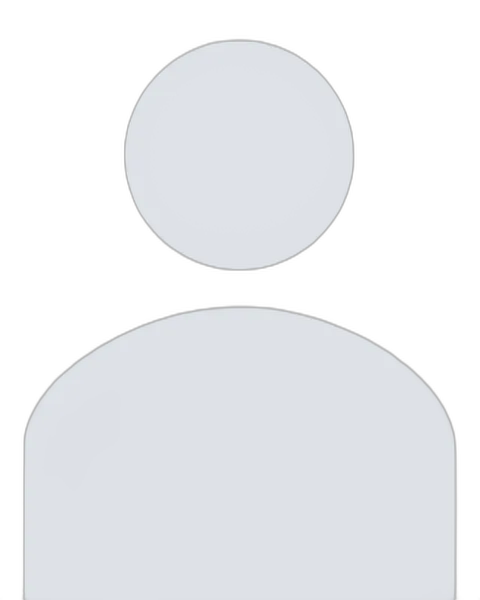
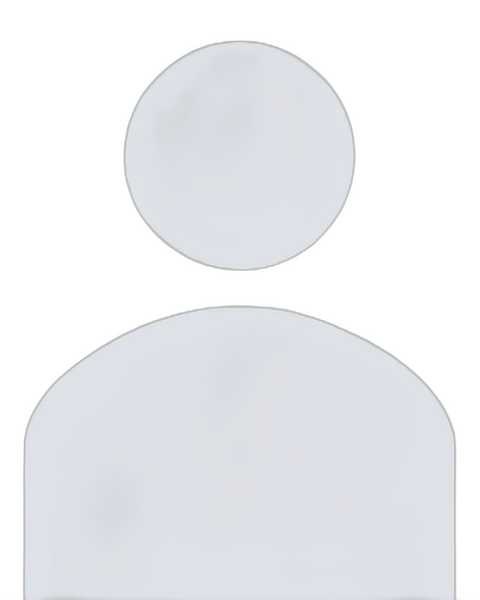
Improve squad cutouts with human segmentation

diff --git a/script.js b/script.js
@@ -796,15 +796,10 @@ if (squadData?.teams) {
     const match = value?.match(/\/player\/([^/]+)/i);
     return match?.[1] || null;
   };
-  const defaultPlayerImage = "logo.png?v=20260310b";
-  const cutoutDisabledTokens = new Set([
-    "Y1NfDiFUnwcn",
-    "6pxKXYYOFU0I"
-  ]);
 
   const resolveImageUrl = (value) => {
     if (!value) {
-      return defaultPlayerImage;
+      return "logo.png?v=20260310b";
     }
 
     if (/\.(?:avif|webp|png|jpe?g|svg)$/i.test(value)) {
@@ -813,34 +808,21 @@ if (squadData?.teams) {
 
     return `${value.replace(/\/$/, "")}/480x600.webp`;
   };
-  const resolveDisplayImageUrl = (value) => {
-    const token = getImageToken(value);
-    const cutoutUrl = resolveCutoutUrl(value);
-
-    if (cutoutUrl) {
-      return cutoutUrl;
-    }
-
-    if (token && cutoutDisabledTokens.has(token)) {
-      return defaultPlayerImage;
-    }
-
-    return resolveImageUrl(value);
-  };
   const resolveCutoutUrl = (value) => {
     const token = getImageToken(value);
 
-    if (!token || cutoutDisabledTokens.has(token)) {
+    if (!token) {
       return null;
     }
 
-    return `images/kader/cutouts/${token}.png?v=20260316h`;
+    return `images/kader/cutouts/${token}.png?v=20260316i`;
   };
   const fallbackImageAttributes = (value) => {
     const remoteImage = resolveImageUrl(value);
     const escapedRemote = remoteImage.replace(/'/g, "\\'");
-    return `data-fallback-src="${escapedRemote}" onerror="if(!this.dataset.fallbackApplied){this.dataset.fallbackApplied='true';this.src=this.dataset.fallbackSrc;}else{this.onerror=null;this.src='${defaultPlayerImage}';}"`;
+    return `data-fallback-src="${escapedRemote}" onerror="if(!this.dataset.fallbackApplied){this.dataset.fallbackApplied='true';this.src=this.dataset.fallbackSrc;}else{this.onerror=null;this.src='logo.png?v=20260310b';}"`;
   };
+  const resolveDisplayImageUrl = (value) => resolveCutoutUrl(value) || resolveImageUrl(value);
   const asCssImage = (value) => `style="--player-image: url('${resolveDisplayImageUrl(value)}');"`;
   const formatFlags = (flags = []) =>
     flags.map((flag) => {

diff --git a/kader.html b/kader.html
@@ -124,6 +124,6 @@
     </footer>
   </div>
   <script src="team-data.js?v=20260316c"></script>
-  <script src="script.js?v=20260316m"></script>
+  <script src="script.js?v=20260316n"></script>
 </body>
 </html>

diff --git a/datenschutz.html b/datenschutz.html
@@ -126,6 +126,6 @@
       </div>
     </footer>
   </div>
-  <script src="script.js?v=20260316m"></script>
+  <script src="script.js?v=20260316n"></script>
 </body>
 </html>

diff --git a/impressum.html b/impressum.html
@@ -103,6 +103,6 @@
       </div>
     </footer>
   </div>
-  <script src="script.js?v=20260316m"></script>
+  <script src="script.js?v=20260316n"></script>
 </body>
 </html>

diff --git a/kontakt.html b/kontakt.html
@@ -133,6 +133,6 @@
       </div>
     </footer>
   </div>
-  <script src="script.js?v=20260316m"></script>
+  <script src="script.js?v=20260316n"></script>
 </body>
 </html>

diff --git a/sportangebot.html b/sportangebot.html
@@ -130,6 +130,6 @@
       </div>
     </footer>
   </div>
-  <script src="script.js?v=20260316m"></script>
+  <script src="script.js?v=20260316n"></script>
 </body>
 </html>

diff --git a/verein.html b/verein.html
@@ -177,6 +177,6 @@
       </div>
     </footer>
   </div>
-  <script src="script.js?v=20260316m"></script>
+  <script src="script.js?v=20260316n"></script>
 </body>
 </html>

diff --git a/fanshop.html b/fanshop.html
@@ -67,6 +67,6 @@
       </div>
     </footer>
   </div>
-  <script src="script.js?v=20260316m"></script>
+  <script src="script.js?v=20260316n"></script>
 </body>
 </html>

diff --git a/index.html b/index.html
@@ -432,6 +432,6 @@
       );
     }
   </script>
-  <script src="script.js?v=20260316m"></script>
+  <script src="script.js?v=20260316n"></script>
 </body>
 </html>

diff --git a/scripts/generate_player_cutouts.py b/scripts/generate_player_cutouts.py
@@ -10,6 +10,7 @@ SOURCE_FILE = ROOT_DIR / "team-data.js"
 DOWNLOAD_DIR = ROOT_DIR / ".tmp" / "player-cutouts" / "downloads"
 OUTPUT_DIR = ROOT_DIR / "images" / "kader" / "cutouts"
 REMBG_BIN = Path("/Users/leakleemann/Library/Python/3.13/bin/rembg")
+REMBG_MODEL = "u2net_human_seg"
 
 
 def normalize_image_url(value: str) -> str:
@@ -47,7 +48,11 @@ def main() -> None:
             continue
 
         subprocess.run(["curl", "-L", remote_url, "-o", str(download_file)], cwd=ROOT_DIR, check=True)
-        subprocess.run([str(REMBG_BIN), "i", str(download_file), str(output_file)], cwd=ROOT_DIR, check=True)
+        subprocess.run(
+            [str(REMBG_BIN), "i", "-m", REMBG_MODEL, str(download_file), str(output_file)],
+            cwd=ROOT_DIR,
+            check=True,
+        )
         created += 1
 
     print(
